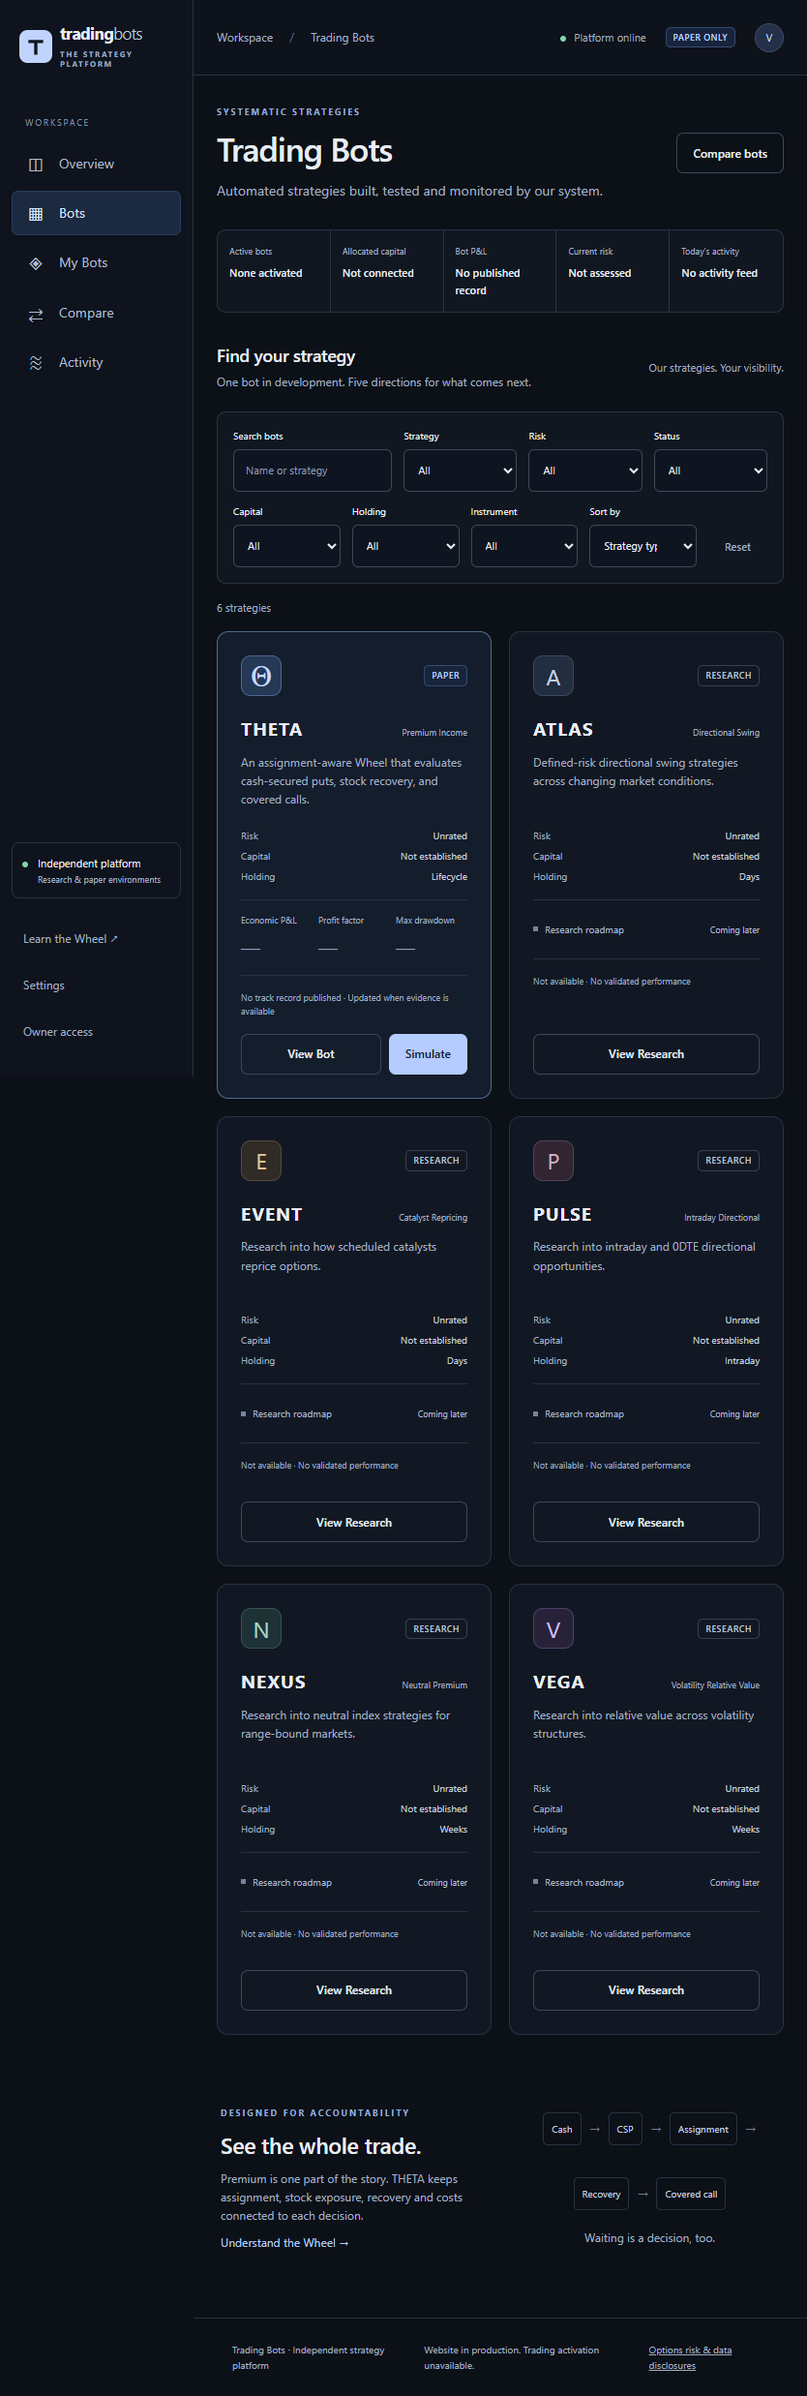
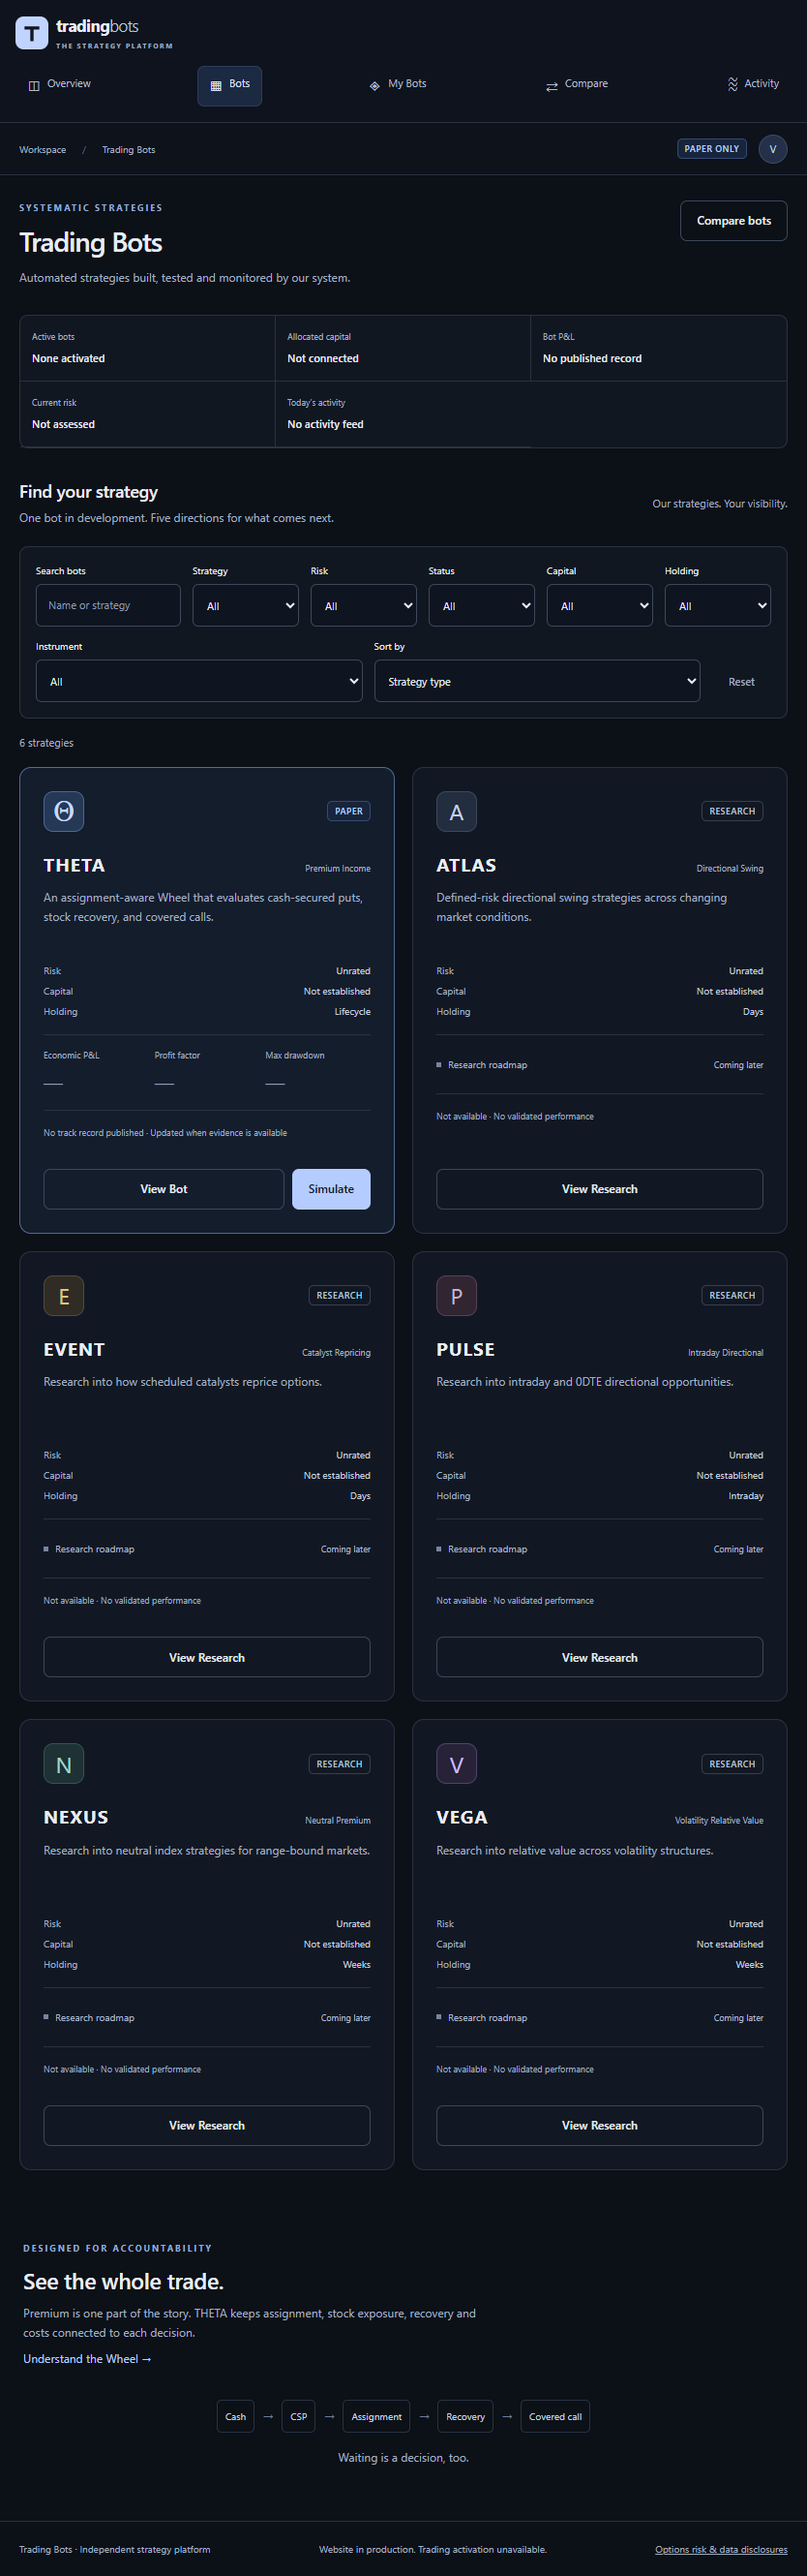
fix: prevent tablet dashboard overflow

diff --git a/tests/browser/platform.spec.ts b/tests/browser/platform.spec.ts
@@ -223,11 +223,14 @@ for (const [name, width, height] of [
       ]) {
         await page.goto(path);
         await expect(page.locator("main h1")).toBeVisible();
-        expect(
-          await page.evaluate(
-            () => document.documentElement.scrollWidth <= innerWidth,
-          ),
-        ).toBe(true);
+        const overflow = await page.evaluate(() => ({
+          viewport: innerWidth,
+          document: document.documentElement.scrollWidth,
+        }));
+        expect(overflow, `${name} ${id} must not overflow the page`).toEqual({
+          viewport: width,
+          document: width,
+        });
         const results = await new AxeBuilder({ page })
           .withTags(["wcag2a", "wcag2aa", "wcag21aa", "wcag22aa"])
           .analyze();

diff --git a/public/assets/styles.css b/public/assets/styles.css
@@ -1477,7 +1477,7 @@ td details p {
     padding: 20px;
   }
 }
-@media (max-width: 800px) {
+@media (max-width: 900px) {
   .sidebar {
     position: static;
     width: 100%;
